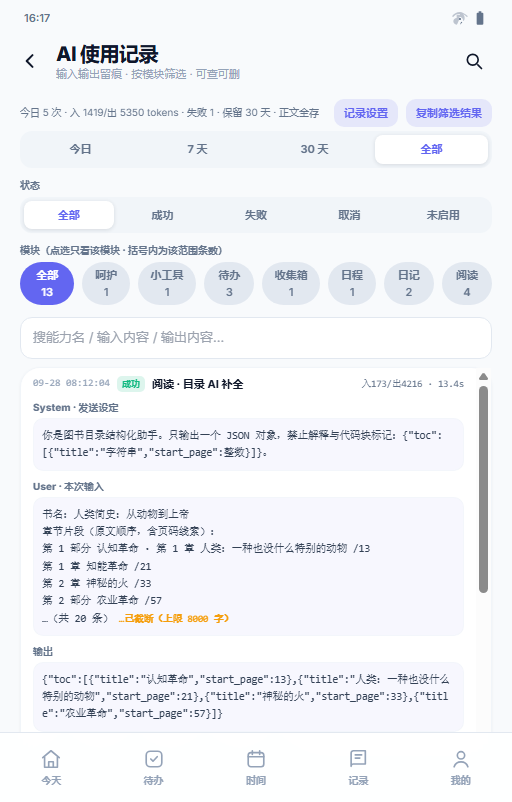
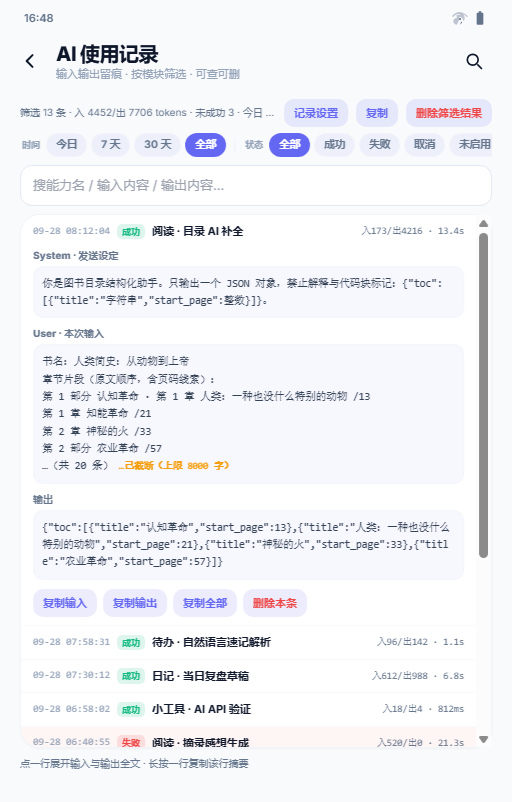
feat(proto): V1.53 AI 使用记录第二轮版式（去底栏 · 筛选合一行 · 统计与删除上移·列表通底）
- 无底栏：setPage 里把 p-aiUsage 与 p-logs 同列，隐藏 #tabNav 且 main 高度改 calc(100% - 78px)，日志窗同款通底
- 一行式筛选：时间（今日/7天/30天/全部）+ 状态（全部/成功/失败/取消/未启用）+ 模块 chips（带范围计数）合并为单行横向可滑，新增 .auf/.au-cap/.au-div 原语，段选从 seg-on 切到 .auf.on
- 统计与动作上移：首行左＝「筛选 N 条 · 入/出 tokens · 未成功 · 今日 N 次」，右＝记录设置 / 复制 / 删除筛选结果；底部统计行删除（#auCnt 移除）
- 列表区最大化：#auBox 限高从 calc(100vh - 372px) 放宽到 calc(100vh - 268px)，底部补一行操作提示（点行展开全文 · 长按复制该行）
- 交互补全：行 oncontextmenu=auCopyLine 复制该行摘要（与日志页长按同语言）
- 校验：tools/aiusagecheck.js 19/19 PASS（新增 T17 底栏隐藏与 main 通底 / T18 三组筛选同基线一行且行高<46px / T19 统计与删除钮在列表上方且底部行已移除），截图 aiu-compact.png

diff --git a/prototype/index.html b/prototype/index.html
@@ -133,6 +133,10 @@ tailwind.config = {
   .ailine .ops{display:flex;flex-wrap:wrap;gap:6px;margin-top:9px}
   .ailine .cut{color:#f59e0b;font-size:9.5px;font-weight:700}
   .au-h{font-size:10px;font-weight:800;color:#64748b;margin:10px 0 4px}
+  .au-cap{font-size:9px;font-weight:800;color:#94a3b8;flex-shrink:0;padding:0 2px}
+  .au-div{width:1px;height:14px;background:color-mix(in srgb,var(--card-bd) 90%,transparent);flex-shrink:0;margin:0 4px}
+  .auf{flex-shrink:0;font-size:10.5px;font-weight:700;color:#64748b;background:color-mix(in srgb,var(--accent) 7%,transparent);border:1px solid color-mix(in srgb,var(--card-bd) 80%,transparent);border-radius:99px;padding:3px 9px;white-space:nowrap}
+  .auf.on{background:var(--accent);color:#fff;border-color:transparent}
   /* V1.50批3.6 V5：横滑选择器（hpick）——左右滑动/点选切换，选中态对齐 seg-on；首尾 hsp 弹性占位保证首末项可居中 */
   .hpick{position:relative;display:flex;gap:6px;overflow-x:auto;scroll-snap-type:x mandatory;scrollbar-width:none;-webkit-overflow-scrolling:touch;overscroll-behavior:contain;padding:5px;border-radius:14px;background:color-mix(in srgb,var(--card-bd) 55%,transparent)}
   .hpick::-webkit-scrollbar{display:none}
@@ -1503,36 +1507,35 @@ tailwind.config = {
       </div>
     </section>
 
-    <!-- ===== P12c3 二级：AI 使用记录（V1.53 · 全屏明细 · 输入输出留痕 · 按模块/状态/关键词筛选 · 查删） ===== -->
+    <!-- ===== P12c3 二级：AI 使用记录（V1.53 · 全屏明细 · 无底栏 · 筛选合一行 · 统计与删除上移） ===== -->
     <section id="p-aiUsage" class="page px-5 no-scrollbar">
-      <div class="flex items-center gap-2 mt-2 mb-1 text-[10px] text-slate-500 dark:text-slate-400">
-        <span id="auSum" class="truncate">今日 0 次 · 入 0/出 0 tokens · 失败 0</span>
+      <div class="flex items-center gap-2 mt-2 text-[10px] text-slate-500 dark:text-slate-400">
+        <span id="auSum" class="truncate">0 条 · 入 0/出 0 tokens · 未成功 0</span>
         <button class="mini-btn ml-auto shrink-0" onclick="openSheet('sheetAiUsageCfg')">记录设置</button>
-        <button class="mini-btn shrink-0" onclick="auCopyAll()">复制筛选结果</button>
+        <button class="mini-btn shrink-0" onclick="auCopyAll()">复制</button>
+        <button class="mini-btn shrink-0" style="color:#ef4444" onclick="auDelFiltered()">删除筛选结果</button>
       </div>
-      <!-- 时间范围（与日志页级别段选同语言） -->
-      <div class="flex gap-1 rounded-xl bg-slate-100 dark:bg-slate-800 p-1 text-[11px] font-bold">
-        <button id="auD0" class="seg-on flex-1 rounded-lg py-1.5" onclick="auSetRange(0,'auD0')">今日</button>
-        <button id="auD7" class="flex-1 rounded-lg py-1.5 text-slate-500" onclick="auSetRange(7,'auD7')">7 天</button>
-        <button id="auD30" class="flex-1 rounded-lg py-1.5 text-slate-500" onclick="auSetRange(30,'auD30')">30 天</button>
-        <button id="auDA" class="flex-1 rounded-lg py-1.5 text-slate-500" onclick="auSetRange(9999,'auDA')">全部</button>
+      <!-- 时间 / 状态 / 模块 合并为一行（横向可滑），把纵向空间全留给列表 -->
+      <div class="flex items-center gap-1 mt-1.5 overflow-x-auto no-scrollbar pb-1" id="auBar">
+        <span class="au-cap">时间</span>
+        <button id="auD0" class="auf on" onclick="auSetRange(0,'auD0')">今日</button>
+        <button id="auD7" class="auf" onclick="auSetRange(7,'auD7')">7 天</button>
+        <button id="auD30" class="auf" onclick="auSetRange(30,'auD30')">30 天</button>
+        <button id="auDA" class="auf" onclick="auSetRange(9999,'auDA')">全部</button>
+        <span class="au-div"></span>
+        <span class="au-cap">状态</span>
+        <button id="auSAll" class="auf on" onclick="auSetSt('all','auSAll')">全部</button>
+        <button id="auSOk" class="auf" onclick="auSetSt('ok','auSOk')">成功</button>
+        <button id="auSF" class="auf" onclick="auSetSt('fail','auSF')">失败</button>
+        <button id="auSC" class="auf" onclick="auSetSt('cancel','auSC')">取消</button>
+        <button id="auSD" class="auf" onclick="auSetSt('denied','auSD')">未启用</button>
+        <span class="au-div"></span>
+        <span class="au-cap">模块</span>
+        <span class="flex gap-1" id="auModRow"></span>
       </div>
-      <div class="au-h">状态</div>
-      <div class="flex gap-1 rounded-xl bg-slate-100 dark:bg-slate-800 p-1 text-[11px] font-bold">
-        <button id="auSAll" class="seg-on flex-1 rounded-lg py-1.5" onclick="auSetSt('all','auSAll')">全部</button>
-        <button id="auSOk" class="flex-1 rounded-lg py-1.5 text-slate-500" onclick="auSetSt('ok','auSOk')">成功</button>
-        <button id="auSF" class="flex-1 rounded-lg py-1.5 text-slate-500" onclick="auSetSt('fail','auSF')">失败</button>
-        <button id="auSC" class="flex-1 rounded-lg py-1.5 text-slate-500" onclick="auSetSt('cancel','auSC')">取消</button>
-        <button id="auSD" class="flex-1 rounded-lg py-1.5 text-slate-500" onclick="auSetSt('denied','auSD')">未启用</button>
-      </div>
-      <div class="au-h">模块（点选只看该模块 · 括号内为该范围条数）</div>
-      <div class="flex gap-2 overflow-x-auto no-scrollbar pb-1" id="auModRow"></div>
-      <input id="auKw" class="inp w-full mt-2" placeholder="搜能力名 / 输入内容 / 输出内容…" oninput="auRender()">
-      <div class="card mt-2 !p-0 overflow-hidden" id="auBox" style="max-height:calc(100vh - 372px);overflow-y:auto"></div>
-      <div class="flex items-center justify-between mt-2 mb-3 text-[10px] text-slate-500 dark:text-slate-400">
-        <span id="auCnt">0 条</span>
-        <button class="mini-btn" style="color:#ef4444" onclick="auDelFiltered()">删除筛选结果</button>
-      </div>
+      <input id="auKw" class="inp w-full mt-1" placeholder="搜能力名 / 输入内容 / 输出内容…" oninput="auRender()">
+      <div class="card mt-2 !p-0 overflow-hidden" id="auBox" style="max-height:calc(100vh - 268px);overflow-y:auto"></div>
+      <div class="text-[10px] text-slate-500 dark:text-slate-400 mt-2 mb-3" id="auHint">点一行展开输入与输出全文 · 长按一行复制该行摘要</div>
     </section>
 
     <!-- ===== 时间账本（L4 · 分类时长统计 · 与轴/块/日/周同一份 blocks） ===== -->
@@ -2579,9 +2582,9 @@ function setPage(p){
   const _th=$('#topHead'),_pc=$('#p-calendar'),_tn=$('#tabNav');
   const _imm=p==='p-noteEdit'||p==='p-diaryEdit'; /* V1.29：笔记编辑页全屏沉浸·隐藏全局头部与底栏；轮12-3：写日记页同款全屏（自带返回头，不露底栏/搜索） */
   if(_th)_th.classList.toggle('hidden',_imm||(p==='calendar'&&stack.length===0)||(p==='p-calendar'&&stack.length===0));
-  if(_tn)_tn.classList.toggle('hidden',_imm||p==='p-logs'); /* V1.50批3.6 V5：日志页无底栏（日志窗通底） */
+  if(_tn)_tn.classList.toggle('hidden',_imm||p==='p-logs'||p==='p-aiUsage'); /* V1.50批3.6 V5 日志页 / V1.53 AI 使用记录：无底栏，列表通底 */
   const _mn=document.querySelector('main'); /* V1.50批3.6 V5：p-logs 时 main 吃掉底栏 70px 高度，日志窗直达屏幕底（148=顶栏预留78+底栏70） */
-  if(_mn)_mn.style.height=(p==='p-logs')?'calc(100% - 78px)':'';
+  if(_mn)_mn.style.height=(p==='p-logs'||p==='p-aiUsage')?'calc(100% - 78px)':'';
   if(_pc)_pc.style.paddingTop=(p==='p-calendar'&&stack.length===0)?'12px':'';
   curPage=p;
   $('#btnTodoFilter').classList.toggle('hidden',p!=='p-todo');
@@ -4101,8 +4104,8 @@ function auModChips(){
   var pool=AI_CALLS.filter(auInRange);var cnt={};
   pool.forEach(function(r){cnt[r.m]=(cnt[r.m]||0)+1;});
   var mods=Object.keys(cnt).sort();
-  var h='<button class="chip'+(auMod==='all'?' chip-on':'')+'" onclick="auPickMod(\'all\')">全部 '+pool.length+'</button>';
-  mods.forEach(function(m){h+='<button class="chip'+(auMod===m?' chip-on':'')+'" onclick="auPickMod(\''+m+'\')">'+m+' '+cnt[m]+'</button>';});
+  var h='<button class="auf'+(auMod==='all'?' on':'')+'" onclick="auPickMod(\'all\')">全部 '+pool.length+'</button>';
+  mods.forEach(function(m){h+='<button class="auf'+(auMod===m?' on':'')+'" onclick="auPickMod(\''+m+'\')">'+m+' '+cnt[m]+'</button>';});
   $('#auModRow').innerHTML=h;
 }
 function auRender(){
@@ -4112,7 +4115,7 @@ function auRender(){
   list.forEach(function(r){
     var open=r.open?' open':'';
     h+='<div class="ailine st-'+r.st+open+'" data-i="'+r.i+'">'
-      +'<div class="ah" onclick="auToggle('+r.i+')">'
+      +'<div class="ah" onclick="auToggle('+r.i+')" oncontextmenu="event.preventDefault();auCopyLine('+r.i+')">'
       +'<span class="at">'+r.t+'</span><span class="as">'+auStTxt(r.st)+'</span>'
       +'<span class="am">'+r.m+' · '+r.n+'</span>'
       +'<span class="aq">'+(r.it||r.ot?('入'+r.it+'/出'+r.ot):'—')+' · '+auMsTxt(r.ms)+'</span></div>'
@@ -4131,12 +4134,16 @@ function auRender(){
   });
   $('#auBox').innerHTML=h;
   var s=auSumOf(list);
-  $('#auCnt').textContent=list.length+' 条 · 入 '+s.it+' / 出 '+s.ot+' tokens · 未成功 '+s.f;
   var today=auSumOf(AI_CALLS.filter(function(r){return r.d===0;}));
-  $('#auSum').textContent='今日 '+today.n+' 次 · 入 '+today.it+'/出 '+today.ot+' tokens · 失败 '+today.f
-    +' · 保留 '+(auKeepDays||'不限')+' 天 · 正文'+(auBodyOn?'全存':'只记用量');
+  $('#auSum').textContent='筛选 '+list.length+' 条 · 入 '+s.it+'/出 '+s.ot+' tokens · 未成功 '+s.f
+    +' · 今日 '+today.n+' 次';
   auKpi();
 }
+/* 长按一行＝复制该行摘要（与日志页同交互） */
+function auCopyLine(i){var r=auFind(i);if(!r)return;
+  var t='['+r.t+'] '+r.m+' · '+r.n+' · '+auStTxt(r.st)+' · 入'+r.it+'/出'+r.ot+' · '+auMsTxt(r.ms)
+    +(r.err?('\n'+r.err):'');
+  navigator.clipboard.writeText(t).then(function(){toast('已复制该行记录');}).catch(function(){toast('复制失败');});}
 /* 入口卡摘要要在进页前就有数：DOM 就绪即渲染一次（脚本先于 section 时静默跳过） */
 function auBootRender(){if(document.getElementById('auBox'))auRender();}
 function auKpi(){
@@ -4146,9 +4153,8 @@ function auKpi(){
   [['auK1',t.n],['auK2',t.it+t.ot],['auK3',w.n],['auK4',a.n]].forEach(function(p){
     var el=document.getElementById(p[0]);if(el)el.textContent=p[1];});
 }
-function auSeg(id,ids){ids.forEach(function(i){var b=document.getElementById(i);if(!b)return;
-  b.classList.remove('seg-on');b.classList.add('text-slate-500');});
-  var on=document.getElementById(id);if(on){on.classList.add('seg-on');on.classList.remove('text-slate-500');}}
+function auSeg(id,ids){ids.forEach(function(i){var b=document.getElementById(i);if(b)b.classList.remove('on');});
+  var on=document.getElementById(id);if(on)on.classList.add('on');}
 function auSetRange(d,id){auD=d;auSeg(id,['auD0','auD7','auD30','auDA']);auRender();}
 function auSetSt(st,id){auSt=st;auSeg(id,['auSAll','auSOk','auSF','auSC','auSD']);auRender();}
 function auPickMod(m){auMod=m;auRender();}

diff --git a/tools/aiu_patch2.js b/tools/aiu_patch2.js
@@ -1,0 +1,100 @@
+/* V1.53 原型第二轮改版补丁：AI 使用记录去底栏 + 筛选合一行 + 统计/删除上移（列表区最大化）
+ * 一次性执行：锚点全部从第一轮过程件里取，命中数不符即中止（大文件脚本化修改三条护栏）。 */
+const fs = require('fs');
+const F = 'prototype/index.html';
+let s = fs.readFileSync(F, 'utf8');
+const before = s.length;
+fs.writeFileSync('tools/aiu_snapshot_page2_before.html', s);
+const frag = f => fs.readFileSync('tools/aiu_frag_' + f + '.txt', 'utf8');
+function put(anchor, replacement, label, hits = 1) {
+  const n = s.split(anchor).length - 1;
+  if (n !== hits) { console.error(`[${label}] 锚点命中 ${n} 次（期望 ${hits}）：${anchor.slice(0, 70)}`); process.exit(1); }
+  s = s.replace(anchor, () => replacement);
+  console.log(`[${label}] ok`);
+}
+/* 第一轮的 JS 过程件里切出函数原文当锚点，保证逐字一致 */
+const oldJs = frag('js');
+function slice(from, to) {
+  const i = oldJs.indexOf(from), j = oldJs.indexOf(to);
+  if (i < 0 || j < 0 || j <= i) { console.error(`切片失败：${from} ~ ${to}`); process.exit(1); }
+  return oldJs.slice(i, j);
+}
+
+/* ① 底栏：与日志页同款——本页隐藏 #tabNav 且 main 吃掉底栏高度 */
+put("  if(_tn)_tn.classList.toggle('hidden',_imm||p==='p-logs'); /* V1.50批3.6 V5：日志页无底栏（日志窗通底） */",
+  "  if(_tn)_tn.classList.toggle('hidden',_imm||p==='p-logs'||p==='p-aiUsage'); /* V1.50批3.6 V5 日志页 / V1.53 AI 使用记录：无底栏，列表通底 */",
+  'setPage-tab');
+put("  if(_mn)_mn.style.height=(p==='p-logs')?'calc(100% - 78px)':'';",
+  "  if(_mn)_mn.style.height=(p==='p-logs'||p==='p-aiUsage')?'calc(100% - 78px)':'';",
+  'setPage-main');
+
+/* ② CSS：一行式筛选条（时间/状态/模块合行） */
+put('  .au-h{font-size:10px;font-weight:800;color:#64748b;margin:10px 0 4px}\n',
+  '  .au-h{font-size:10px;font-weight:800;color:#64748b;margin:10px 0 4px}\n' +
+  '  .au-cap{font-size:9px;font-weight:800;color:#94a3b8;flex-shrink:0;padding:0 2px}\n' +
+  '  .au-div{width:1px;height:14px;background:color-mix(in srgb,var(--card-bd) 90%,transparent);flex-shrink:0;margin:0 4px}\n' +
+  '  .auf{flex-shrink:0;font-size:10.5px;font-weight:700;color:#64748b;background:color-mix(in srgb,var(--accent) 7%,transparent);border:1px solid color-mix(in srgb,var(--card-bd) 80%,transparent);border-radius:99px;padding:3px 9px;white-space:nowrap}\n' +
+  '  .auf.on{background:var(--accent);color:#fff;border-color:transparent}\n',
+  'css');
+
+/* ③ 页面骨架：统计与三个动作上移到首行，筛选合成一行，列表限高放宽 */
+put(frag('page'), frag('page2'), 'page');
+
+/* ④ 渲染：模块 chips 换 .auf；摘要行并入筛选统计；行加长按复制 */
+put(slice('function auModChips(){', 'function auKpi(){'),
+`function auModChips(){
+  var pool=AI_CALLS.filter(auInRange);var cnt={};
+  pool.forEach(function(r){cnt[r.m]=(cnt[r.m]||0)+1;});
+  var mods=Object.keys(cnt).sort();
+  var h='<button class="auf'+(auMod==='all'?' on':'')+'" onclick="auPickMod(\\'all\\')">全部 '+pool.length+'</button>';
+  mods.forEach(function(m){h+='<button class="auf'+(auMod===m?' on':'')+'" onclick="auPickMod(\\''+m+'\\')">'+m+' '+cnt[m]+'</button>';});
+  $('#auModRow').innerHTML=h;
+}
+function auRender(){
+  auModChips();
+  var list=auList(),h='';
+  if(!list.length){h='<div class="p-6 text-center text-[11px] text-slate-400">该范围暂无 AI 调用记录<br><span class="opacity-70">换时间范围或清掉关键词再看</span></div>';}
+  list.forEach(function(r){
+    var open=r.open?' open':'';
+    h+='<div class="ailine st-'+r.st+open+'" data-i="'+r.i+'">'
+      +'<div class="ah" onclick="auToggle('+r.i+')" oncontextmenu="event.preventDefault();auCopyLine('+r.i+')">'
+      +'<span class="at">'+r.t+'</span><span class="as">'+auStTxt(r.st)+'</span>'
+      +'<span class="am">'+r.m+' · '+r.n+'</span>'
+      +'<span class="aq">'+(r.it||r.ot?('入'+r.it+'/出'+r.ot):'—')+' · '+auMsTxt(r.ms)+'</span></div>'
+      +'<div class="ab">'
+      +(r.err?('<h5>'+(r.st==='ok'?'提示':'原因')+'</h5><pre class="err">'+auEsc(r.err)+'</pre>'):'')
+      +(r.sys?('<h5>System · 发送设定</h5><pre>'+auEsc(r.sys)+'</pre>'):'')
+      +(r.usr?('<h5>User · 本次输入</h5><pre>'+auEsc(r.usr)+(r.cut?' <span class="cut">…已截断（上限 8000 字）</span>':'')+'</pre>'):'')
+      +(r.out?('<h5>输出</h5><pre>'+auEsc(r.out)+'</pre>'):'')
+      +(!r.sys&&!r.usr&&!r.out?'<div class="text-[10px] text-slate-400 mt-2">本条未存正文（记录设置里「记录输入与输出正文」已关闭）</div>':'')
+      +'<div class="ops">'
+      +'<button class="mini-btn" onclick="event.stopPropagation();auCopy('+r.i+',\\'usr\\')">复制输入</button>'
+      +'<button class="mini-btn" onclick="event.stopPropagation();auCopy('+r.i+',\\'out\\')">复制输出</button>'
+      +'<button class="mini-btn" onclick="event.stopPropagation();auCopy('+r.i+',\\'all\\')">复制全部</button>'
+      +'<button class="mini-btn" style="color:#ef4444" onclick="event.stopPropagation();auDel('+r.i+',this)">删除本条</button>'
+      +'</div></div></div>';
+  });
+  $('#auBox').innerHTML=h;
+  var s=auSumOf(list);
+  var today=auSumOf(AI_CALLS.filter(function(r){return r.d===0;}));
+  $('#auSum').textContent='筛选 '+list.length+' 条 · 入 '+s.it+'/出 '+s.ot+' tokens · 未成功 '+s.f
+    +' · 今日 '+today.n+' 次';
+  auKpi();
+}
+/* 长按一行＝复制该行摘要（与日志页同交互） */
+function auCopyLine(i){var r=auFind(i);if(!r)return;
+  var t='['+r.t+'] '+r.m+' · '+r.n+' · '+auStTxt(r.st)+' · 入'+r.it+'/出'+r.ot+' · '+auMsTxt(r.ms)
+    +(r.err?('\\n'+r.err):'');
+  navigator.clipboard.writeText(t).then(function(){toast('已复制该行记录');}).catch(function(){toast('复制失败');});}
+`, 'render');
+
+/* ⑤ 段选样式切换改吃 .auf.on */
+put(slice('function auSeg(', 'function auSetRange('),
+`function auSeg(id,ids){ids.forEach(function(i){var b=document.getElementById(i);if(b)b.classList.remove('on');});
+  var on=document.getElementById(id);if(on)on.classList.add('on');}
+`, 'seg');
+
+const grew = s.length - before;
+if (grew < 200) { console.error(`体积增长异常（+${grew}），已拒绝写回`); process.exit(1); }
+fs.writeFileSync(F, s);
+console.log(`OK 写入完成：${before} → ${s.length}（${grew >= 0 ? '+' : ''}${grew}）`);

diff --git a/tools/aiusagecheck.js b/tools/aiusagecheck.js
@@ -56,17 +56,17 @@ const RESET = "auSetSt('all','auSAll');auSetRange(9999,'auDA');auPickMod('all');
 
   /* T2 进页 + 默认今日范围 */
   const t2 = await ev(`navTo('p-aiUsage');auRender();
-    return {p:curPage,rows:${ROWS},sum:$('#auSum').textContent,cnt:$('#auCnt').textContent};`);
+    return {p:curPage,rows:${ROWS},sum:$('#auSum').textContent,cnt:$('#auSum').textContent};`);
   (t2.p === 'p-aiUsage' && JSON.stringify(t2.rows) === '[1,2,3,4,5]' && /今日 5 次/.test(t2.sum))
     ? ok('T2 默认「今日」只列当天 5 条 + 摘要条') : bad('T2', JSON.stringify(t2));
 
   await shot('aiu-list-today');
-  /* T3 全部范围 13 条 */  const t3 = await ev(`auSetRange(9999,'auDA');return {rows:${ROWS},cnt:$('#auCnt').textContent};`);
+  /* T3 全部范围 13 条 */  const t3 = await ev(`auSetRange(9999,'auDA');return {rows:${ROWS},cnt:$('#auSum').textContent};`);
   (t3.rows.length === 13) ? ok('T3 切「全部」= 13 条') : bad('T3', JSON.stringify(t3));
 
   /* T4 模块 chips 计数与筛选 */
   const t4 = await ev(`${RESET}
-    var chips=[].map.call($$('#auModRow .chip'),function(b){return b.textContent.trim()});
+    var chips=[].map.call($$('#auModRow .auf'),function(b){return b.textContent.trim()});
     auPickMod('阅读');
     var rows=[].map.call(document.querySelectorAll('#auBox .ailine .am'),function(e){return e.textContent});
     var r={chips:chips,n:rows.length,allRead:rows.every(function(t){return /^阅读 ·/.test(t)})};
@@ -75,7 +75,7 @@ const RESET = "auSetSt('all','auSAll');auSetRange(9999,'auDA');auPickMod('all');
     ? ok('T4 模块 chips 带计数 · 选「阅读」=4 条') : bad('T4', JSON.stringify(t4));
 
   /* T5 状态筛选 */
-  const t5 = await ev(`${RESET}auSetSt('fail','auSF');var r={rows:${ROWS},cnt:$('#auCnt').textContent};auSetSt('all','auSAll');return r;`);
+  const t5 = await ev(`${RESET}auSetSt('fail','auSF');var r={rows:${ROWS},cnt:$('#auSum').textContent};auSetSt('all','auSAll');return r;`);
   (JSON.stringify(t5.rows) === '[5,10]') ? ok('T5 状态=失败 命中 2 条（含 429 与断连）') : bad('T5', JSON.stringify(t5));
 
   /* T6 关键词跨正文搜索 */
@@ -128,7 +128,7 @@ const RESET = "auSetSt('all','auSAll');auSetRange(9999,'auDA');auPickMod('all');
 
   /* T13 空态（关键词无命中） */
   const t13 = await ev(`$('#auKw').value='zzz不存在';auRender();
-    var r={html:$('#auBox').textContent.slice(0,24),cnt:$('#auCnt').textContent};
+    var r={html:$('#auBox').textContent.slice(0,24),cnt:$('#auSum').textContent};
     $('#auKw').value='';auRender();return r;`);
   (/暂无 AI 调用记录/.test(t13.html)) ? ok('T13 清空后列表空态文案') : bad('T13', JSON.stringify(t13));
 
@@ -162,6 +162,33 @@ const RESET = "auSetSt('all','auSAll');auSetRange(9999,'auDA');auPickMod('all');
   const leak = ['undefined', 'NaN', '[object Object]', 'null 次'].filter(k => (t16.body || '').includes(k));
   (errs.length === 0 && leak.length === 0)
     ? ok('T16 零 JS 异常 · 无 undefined/NaN/[object Object] 泄漏') : bad('T16', 'errs=' + errs.join(' | ') + ' leak=' + leak.join(','));
+
+  /* T17~T19 第二轮改版：无底栏 / 筛选合一行 / 统计与删除上移（重新播种几条再量版式） */
+  await ev(`AI_CALLS=[
+    {i:201,d:0,t:'09-28 10:02:11',m:'阅读',id:'read.toc',n:'目录 AI 补全',st:'ok',it:173,ot:4216,ms:13443,cut:0,sys:'S',usr:'U',out:'O',err:''},
+    {i:202,d:0,t:'09-28 09:41:02',m:'待办',id:'todo.quadrant',n:'AI 判象限',st:'fail',it:88,ot:0,ms:2100,cut:0,sys:'S',usr:'U',out:'',err:'rateLimited: 429'},
+    {i:203,d:1,t:'09-27 20:11:44',m:'日记',id:'journal.reflect',n:'当日复盘草稿',st:'ok',it:612,ot:988,ms:6800,cut:0,sys:'S',usr:'U',out:'O',err:''}];
+    ${RESET}navTo('p-aiUsage');auToggle(201);auRender();return 1;`);
+  const t17 = await ev(`return {p:curPage,navHidden:$('#tabNav').classList.contains('hidden'),
+      mainH:(document.querySelector('main')||{style:{}}).style.height};`);
+  (t17.p === 'p-aiUsage' && t17.navHidden && /calc/.test(t17.mainH))
+    ? ok('T17 本页隐藏底栏且 main 通底（与日志页同款）', JSON.stringify(t17)) : bad('T17', JSON.stringify(t17));
+
+  const t18 = await ev(`
+    var ids=['auD0','auSAll','auModRow'].map(function(i){return document.getElementById(i).getBoundingClientRect().top});
+    var bar=document.getElementById('auBar');
+    return {tops:ids.map(function(t){return Math.round(t)}),bar:!!bar,h:Math.round(bar.getBoundingClientRect().height)};`);
+  (t18.bar && (Math.max.apply(null, t18.tops) - Math.min.apply(null, t18.tops)) < 6 && t18.h < 46)
+    ? ok('T18 时间/状态/模块合并为一行（同基线 · 行高 <46px）', JSON.stringify(t18)) : bad('T18', JSON.stringify(t18));
+
+  const t19 = await ev(`
+    var sum=$('#auSum').getBoundingClientRect(), box=$('#auBox').getBoundingClientRect();
+    var del=[].filter.call(document.querySelectorAll('.mini-btn'),function(x){return /删除筛选结果/.test(x.textContent)})[0].getBoundingClientRect();
+    return {sumBottom:Math.round(sum.bottom),delTop:Math.round(del.top),boxTop:Math.round(box.top),
+      noCnt:!document.getElementById('auCnt'),kw:!!document.getElementById('auKw')};`);
+  (t19.sumBottom < t19.boxTop && t19.delTop < t19.boxTop && t19.noCnt && t19.kw)
+    ? ok('T19 统计与「删除筛选结果」上移到列表上方（底部行已移除）', JSON.stringify(t19)) : bad('T19', JSON.stringify(t19));
+  await shot('aiu-compact');
 
   await shot('aiu-final');
   finish();
